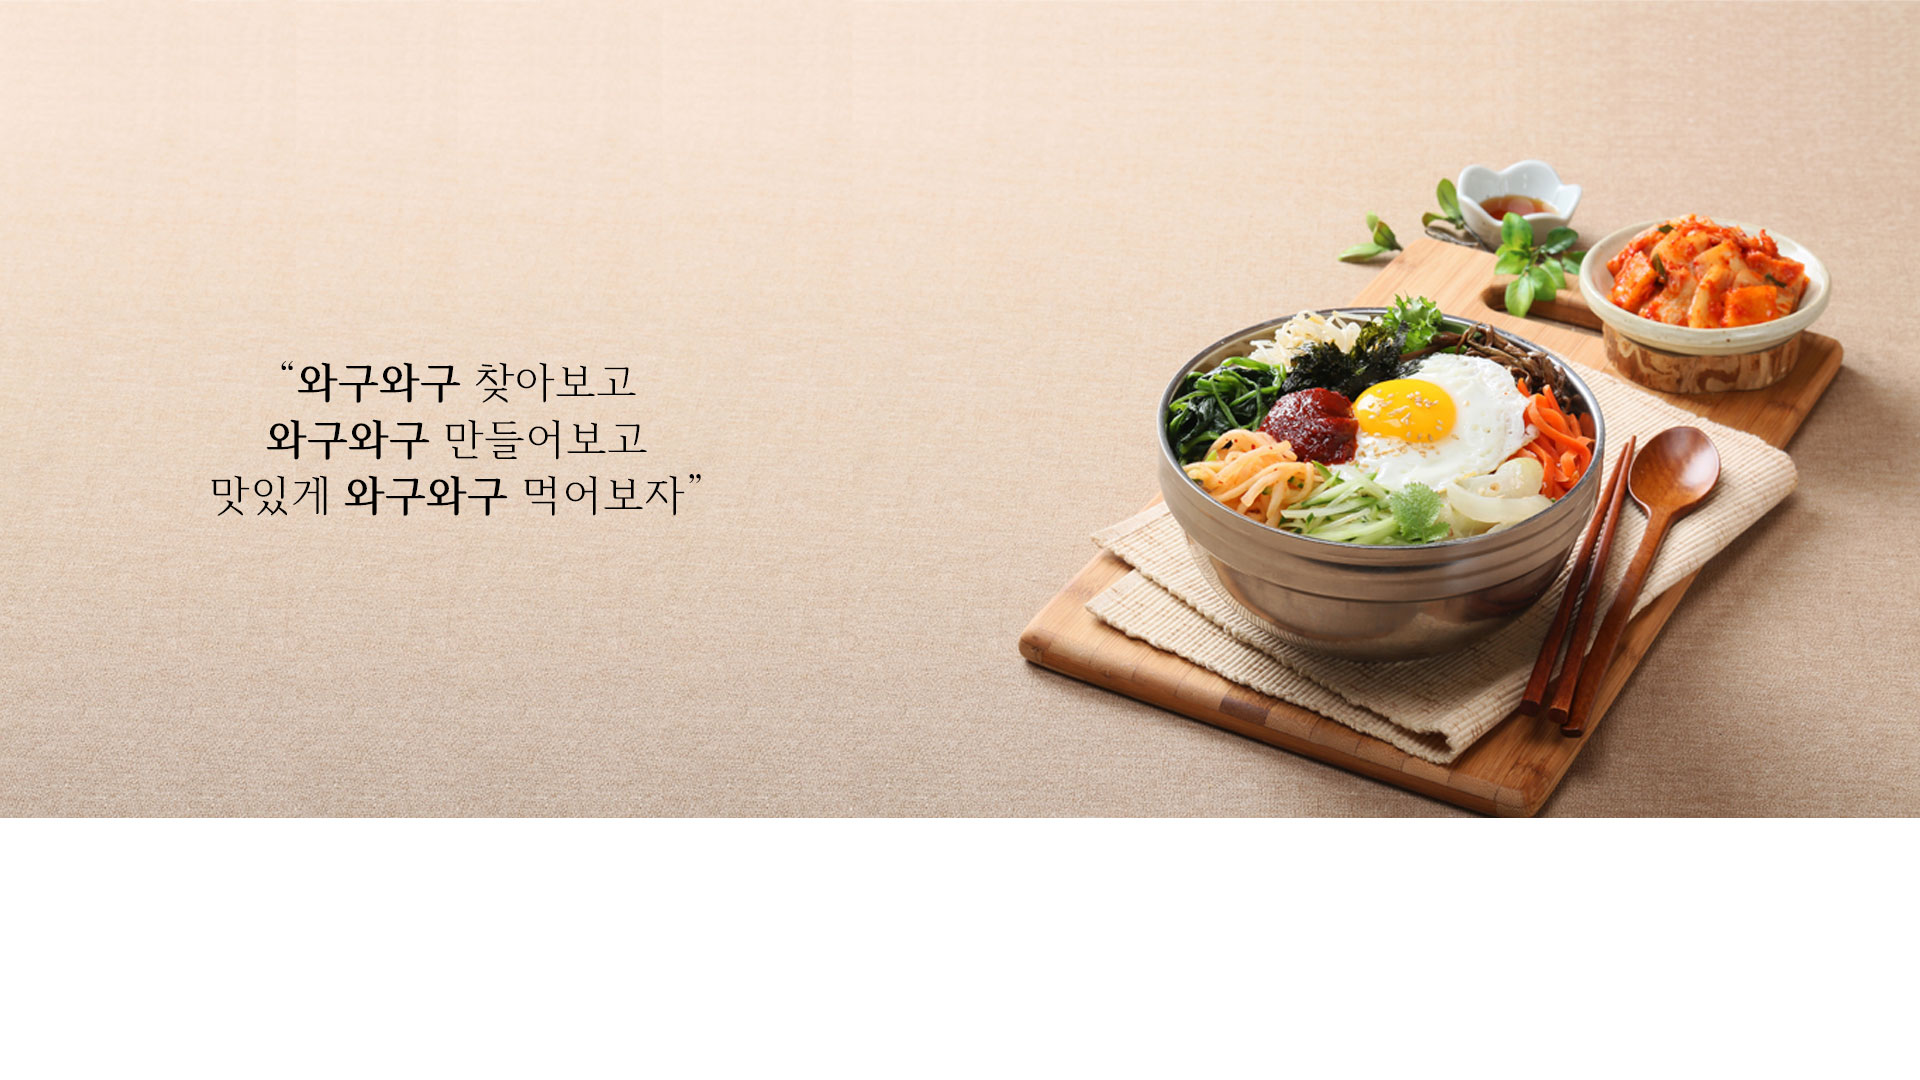
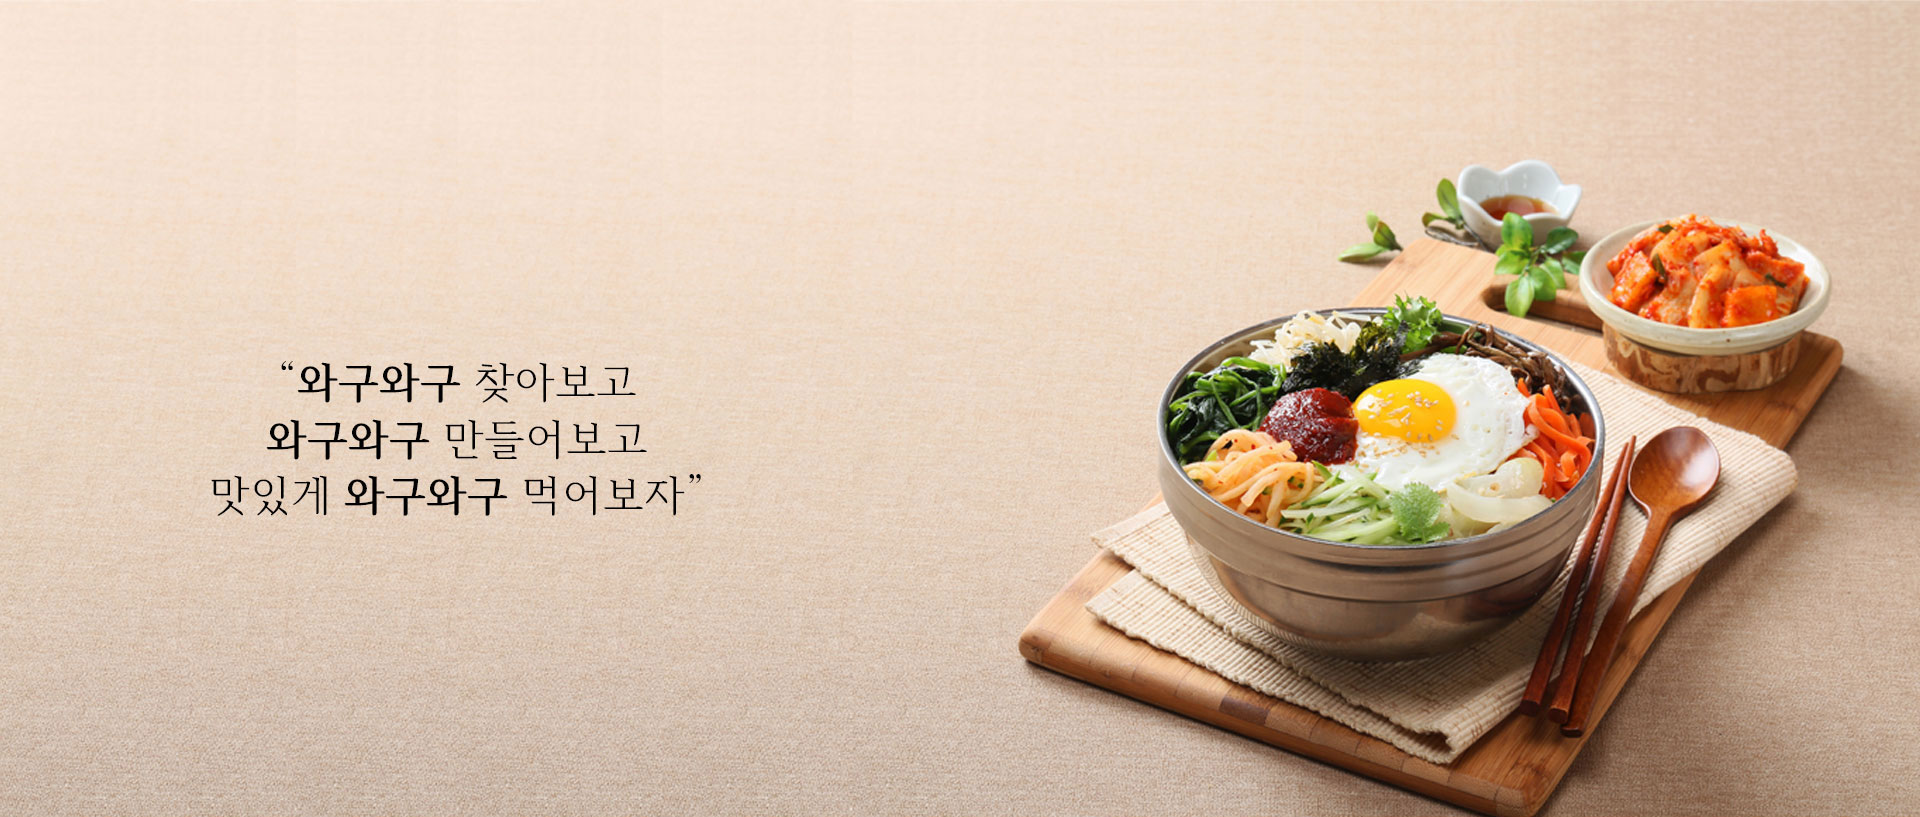
0926

diff --git a/w9w9/w9w9/src/views/RECIPEBOARD.vue b/w9w9/w9w9/src/views/RECIPEBOARD.vue
@@ -1,7 +1,148 @@
 <template>
-  <div></div>
+  <div>
+    <h1 class="title">| OUR RECIPES |</h1>
+    <p class="title2"><b>와구와구</b>와 맛있는 음식을 만들어보세요</p>
+    <div class="grid">
+      <div v-for="item in arr" :key="item" class="card" @click="viewPage(item.idx)">
+        <img :src="item.imageUrl" alt="게시글 이미지" class="image" />
+        <h2 class="card-title">My Recipe: {{ item.title }}</h2>
+        <!-- 제목 변경 -->
+      </div>
+    </div>
+    <div class="pagination">
+      <ul class="pagination-list">
+        <li class="arrow" v-if="pageNum > 0" @click="setPageNum(pageNum - 1)">
+          &lt;
+          <!-- 왼쪽 화살표 -->
+        </li>
+        <li
+          class="page-number"
+          v-for="num in totalPages"
+          v-bind:key="num"
+          @click="setPageNum(num - 1)"
+        >
+          {{ num }}
+        </li>
+        <li class="arrow" v-if="pageNum < totalPages - 1" @click="setPageNum(pageNum + 1)">
+          &gt;
+          <!-- 오른쪽 화살표 -->
+        </li>
+      </ul>
+    </div>
+  </div>
 </template>
 
-<script setup></script>
+<script setup>
+import axios from 'axios'
+import { ref } from 'vue'
+import { useRouter } from 'vue-router'
 
-<style scoped></style>
+const router = useRouter()
+const arr = ref([])
+// const arr = ref([
+//   { idx: 1, imageUrl: 'image1.jpg', title: 'Recipe 1' },
+//   { idx: 2, imageUrl: 'image2.jpg', title: 'Recipe 2' },
+//   { idx: 3, imageUrl: 'image3.jpg', title: 'Recipe 3' },
+//   { idx: 4, imageUrl: 'image4.jpg', title: 'Recipe 4' },
+//   { idx: 5, imageUrl: 'image5.jpg', title: 'Recipe 5' },
+//   { idx: 6, imageUrl: 'image6.jpg', title: 'Recipe 6' },
+//   { idx: 7, imageUrl: 'image7.jpg', title: 'Recipe 7' },
+//   { idx: 8, imageUrl: 'image8.jpg', title: 'Recipe 8' }
+//   // 추가 항목...
+// ])
+
+const totalPages = ref(10)
+const pageNum = ref(0)
+
+const setPageNum = (num) => {
+  pageNum.value = num
+  getFreeBoard(num)
+}
+
+const viewPage = (idx) => {
+  const data = { name: 'freeboardview', params: { idx } }
+  router.push(data)
+}
+
+const getFreeBoard = (pageNum) => {
+  if (pageNum === undefined) pageNum = 0
+  axios
+    .get(`http://localhost:10000/freeboard?pageNum=${pageNum}`)
+    .then((res) => {
+      arr.value = res.data.list
+      totalPages.value = res.data.totalPages
+    })
+    .catch((e) => {
+      console.error(e)
+    })
+}
+
+// 페이지 호출 시 자동 실행
+getFreeBoard()
+</script>
+
+<style scoped>
+.title {
+  text-align: center;
+  font-size: 2rem;
+  margin: 70px 0;
+}
+
+.title2 {
+  text-align: center;
+}
+
+.grid {
+  display: grid;
+  grid-template-columns: repeat(5, 200px); /* 가로 5개 */
+  grid-template-rows: repeat(3, 200px); /* 세로 3줄 */
+  gap: 20px; /* 카드 간격 */
+  text-align: center;
+  justify-content: center;
+}
+
+.card {
+  border: 1px solid #ccc;
+  padding: 10px;
+  cursor: pointer;
+  transition: box-shadow 0.3s ease;
+}
+
+.card:hover {
+  box-shadow: 0 4px 8px rgba(0, 0, 0, 0.2);
+}
+
+.image {
+  width: 100%;
+  height: auto;
+  margin-bottom: 10px;
+}
+
+.card-title {
+  text-align: center;
+  font-size: 1.2rem;
+}
+
+.pagination {
+  display: flex;
+  justify-content: center;
+  margin-top: 20px;
+}
+
+.pagination-list {
+  list-style-type: none; /* 리스트 스타일 제거 */
+  display: flex;
+  gap: 10px;
+  padding: 0;
+}
+
+.arrow {
+  cursor: pointer;
+  padding: 10px;
+}
+
+.page-number {
+  cursor: pointer;
+  padding: 10px;
+}
+</style>

diff --git a/w9w9/w9w9/src/components/HEADER.vue b/w9w9/w9w9/src/components/HEADER.vue
@@ -7,7 +7,7 @@
     </ul>
   </div>
   <div class="image-container">
-    <img src="D:/work/w9w9/w9w9/src/assets/header.jpg" alt="Header Image" />
+    <img src="D:/work/w9w9/w9w9/src/assets/header2.jpg" alt="Header Image" />
   </div>
 </template>
 
@@ -38,6 +38,6 @@ li {
   text-shadow: 1px 2px 3px rgba(0, 0, 0, 0.7); /* 그림자 추가 */
 }
 .image-container img {
-  width: 1902px; /* 원하는 넓이로 조정 (예: 80%) */
+  width: 1902px; /* 원하는 넓이로 조정*/
 }
 </style>

diff --git a/w9w9/w9w9/src/App.vue b/w9w9/w9w9/src/App.vue
@@ -2,6 +2,7 @@
 import { RouterView } from 'vue-router'
 import HEADER from './components/HEADER.vue'
 import FOOTER from './components/FOOTER.vue'
+import RECIPEBOARD from './views/RECIPEBOARD.vue'
 </script>
 
 <template>
@@ -9,7 +10,9 @@ import FOOTER from './components/FOOTER.vue'
     <HEADER></HEADER>
     <FOOTER></FOOTER>
   </div>
-
+  <div>
+    <RECIPEBOARD></RECIPEBOARD>
+  </div>
   <RouterView />
 </template>
 

diff --git a/w9w9/w9w9/src/router/index.js b/w9w9/w9w9/src/router/index.js
@@ -8,14 +8,6 @@ const router = createRouter({
       path: '/',
       name: 'RECIPEBOARD',
       component: RECIPEBOARD
-    },
-    {
-      path: '/about',
-      name: 'about',
-      // route level code-splitting
-      // this generates a separate chunk (About.[hash].js) for this route
-      // which is lazy-loaded when the route is visited.
-      component: () => import('../views/RECIPEBOARD.vue')
     }
   ]
 })

diff --git a/w9w9/w9w9/src/assets/main.css b/w9w9/w9w9/src/assets/main.css
@@ -28,7 +28,7 @@ a,
 
   #app {
     display: grid;
-    grid-template-columns: 1fr 1fr;
+    /* grid-template-columns: 1fr 1fr; */
     padding: 0;
   }
 }

diff --git a/w9w9/w9w9/src/assets/base.css b/w9w9/w9w9/src/assets/base.css
@@ -55,7 +55,7 @@
 *::after {
   box-sizing: border-box;
   margin: 0;
-  font-weight: normal;
+  /* font-weight: normal; */
 }
 
 body {
